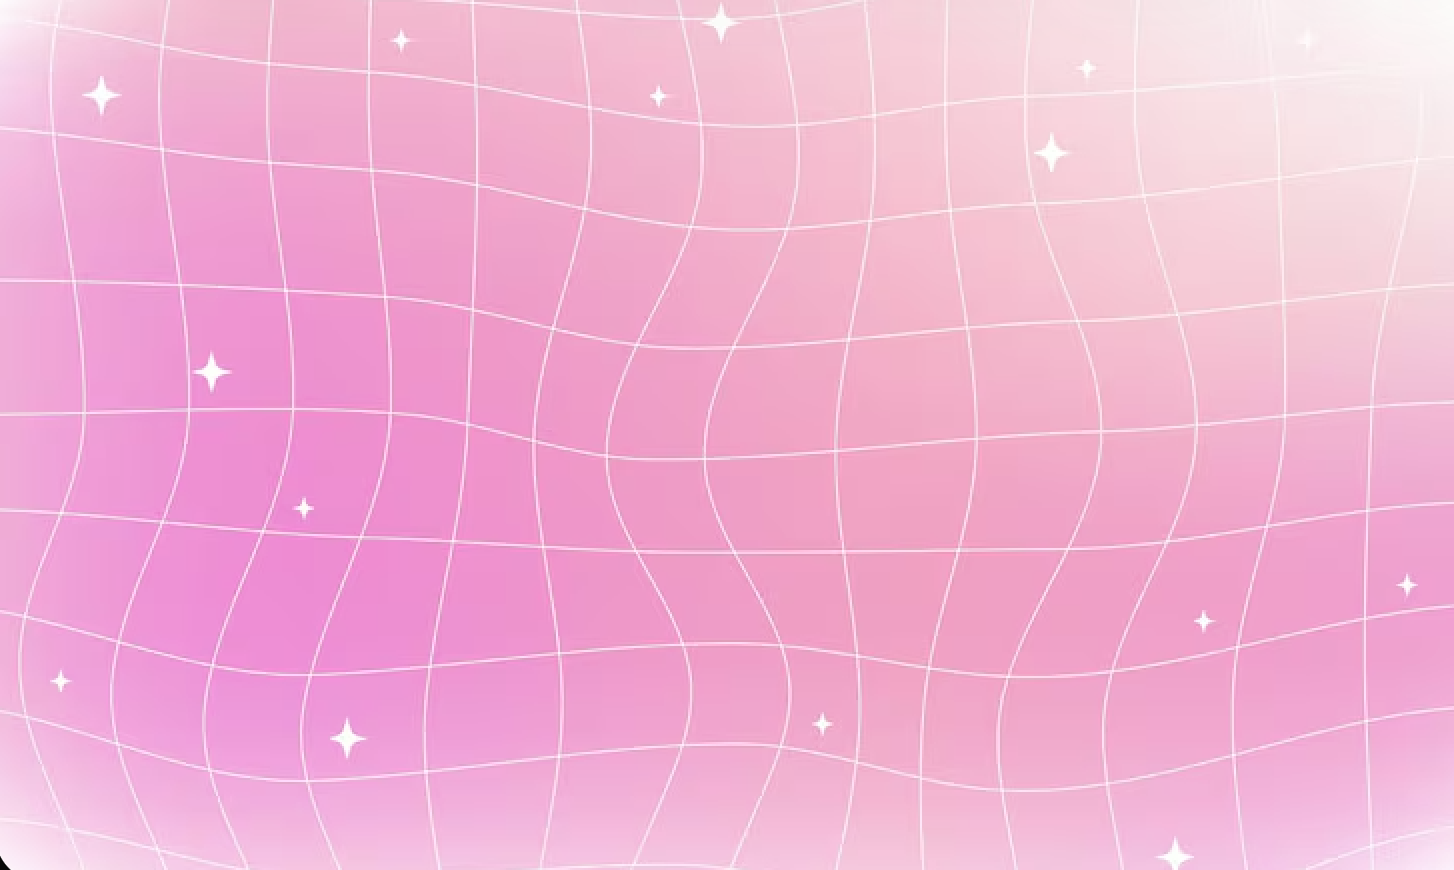
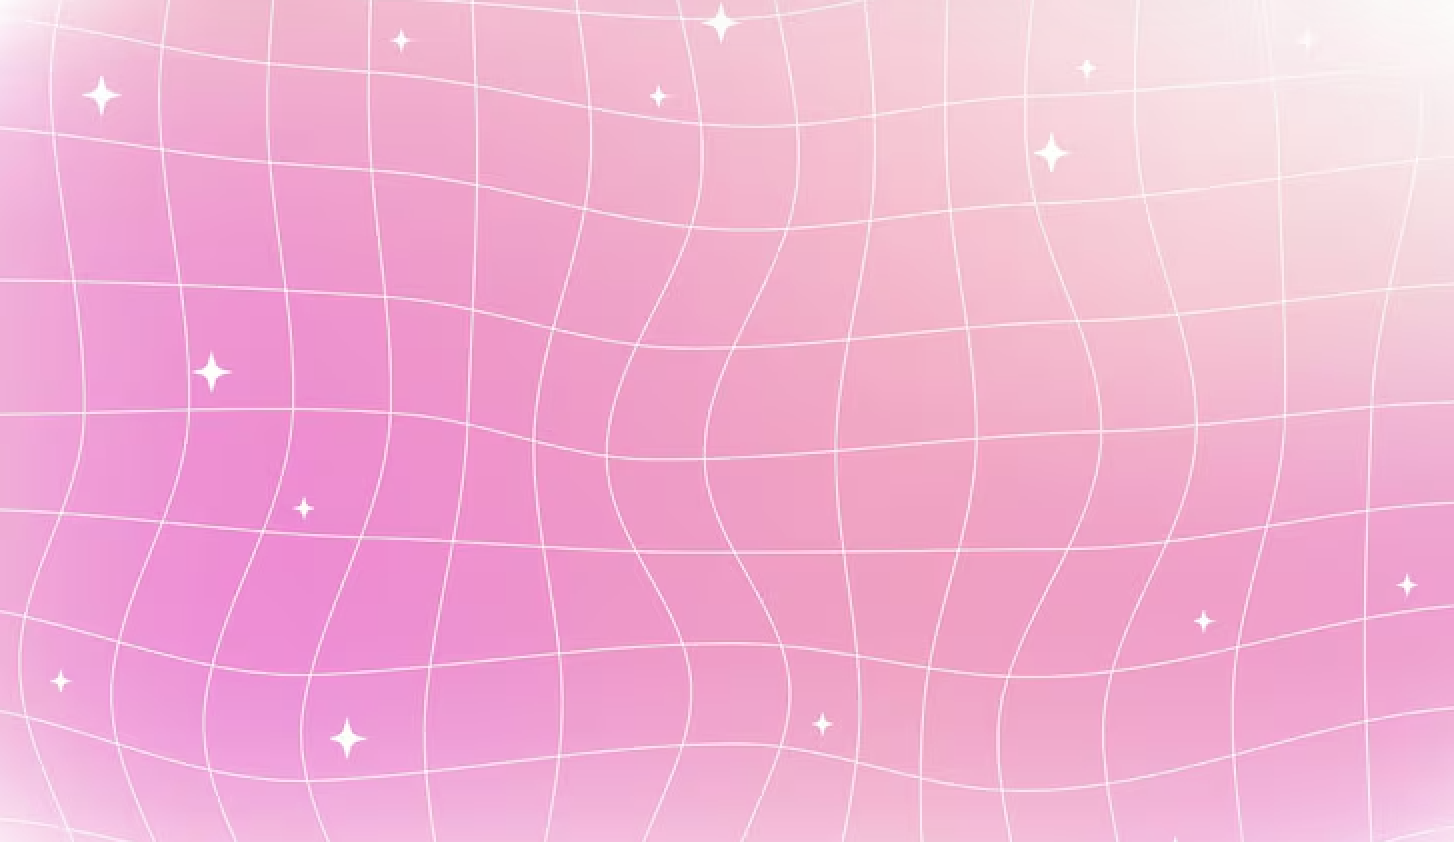
Fix IE background: no zoom on navigate, swap bg for Rebellion
- Change background-size to 100% 100% so it stretches correctly
  on both normal and maximized window without zooming into projects
- Swap to blue background (v2) when entering Rebellion project
- Preload both background images
- Update background images with new versions
- Bump cache to v=20260211e

diff --git a/js/ie-browser.js b/js/ie-browser.js
@@ -195,8 +195,15 @@ function ieNavigate(page, addToHistory = true) {
     // Update status bar
     document.getElementById('ie-status').textContent = 'Done';
 
-    // Render
+    // Swap background for rebellion
     const content = document.getElementById('ie-content');
+    if (page === 'rebellion') {
+        content.style.backgroundImage = "url('img/Screenshot 2026-02-10 at 14.20.53-2.png')";
+    } else {
+        content.style.backgroundImage = '';
+    }
+
+    // Render
     if (page === 'home') {
         renderIEHome(content);
     } else if (page === 'more-projects') {

diff --git a/css/style.css b/css/style.css
@@ -2910,10 +2910,14 @@ input[type="submit"]:active {
     min-height: 0;
     overflow-y: auto;
     overflow-x: hidden;
-    background: url('../img/Screenshot 2026-02-10 at 14.20.53.png') center / 100% 100% no-repeat, #d4789b;
     border: 2px inset var(--window-bg);
     margin: 0;
     position: relative;
+    background-color: #d4789b;
+    background-image: url('../img/Screenshot 2026-02-10 at 14.20.53.png');
+    background-position: center;
+    background-size: 100% 100%;
+    background-repeat: no-repeat;
 }
 
 /* === Snowfall === */

diff --git a/index.html b/index.html
@@ -11,7 +11,8 @@
     <link rel="preconnect" href="https://fonts.googleapis.com">
     <link rel="preconnect" href="https://fonts.gstatic.com" crossorigin>
     <link rel="preload" href="img/Screenshot 2026-02-10 at 14.20.53.png" as="image">
-    <link rel="stylesheet" href="css/style.css?v=20260211d">
+    <link rel="preload" href="img/Screenshot 2026-02-10 at 14.20.53-2.png" as="image">
+    <link rel="stylesheet" href="css/style.css?v=20260211e">
 </head>
 <body>
 
